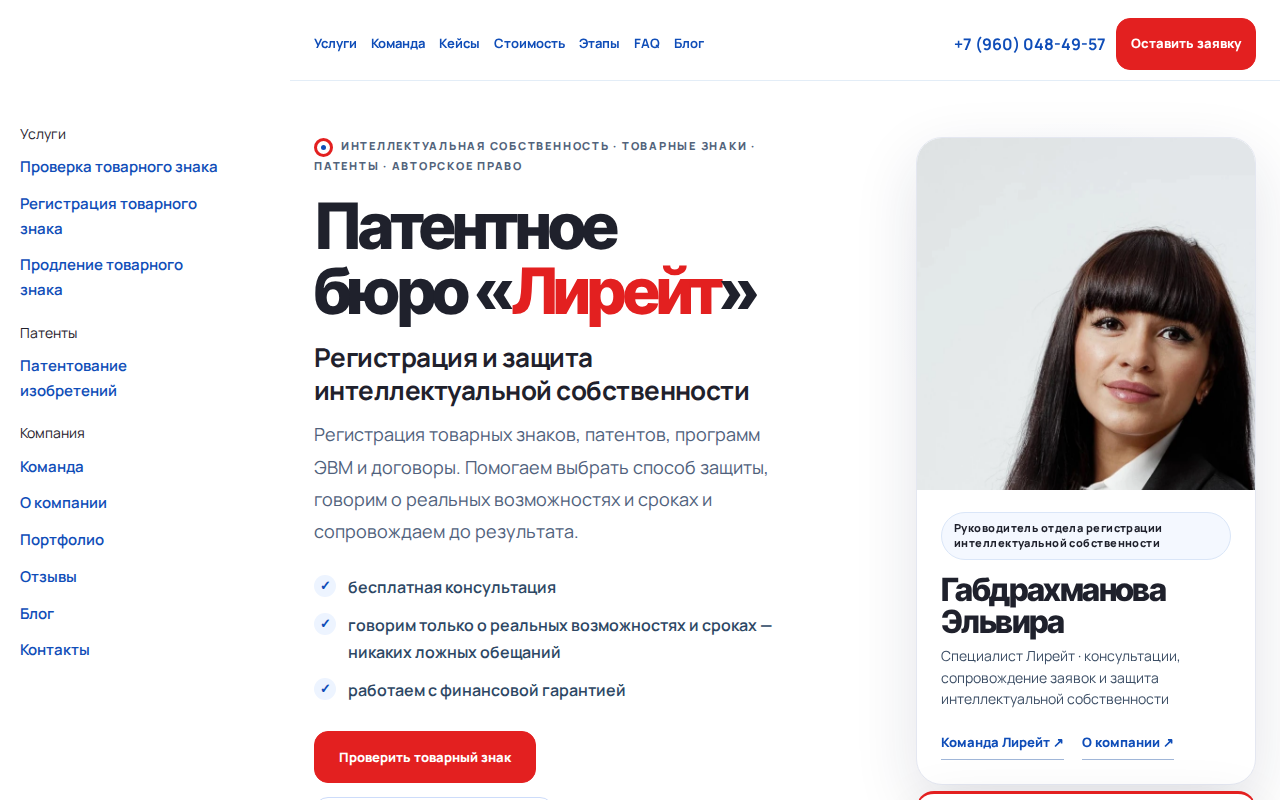
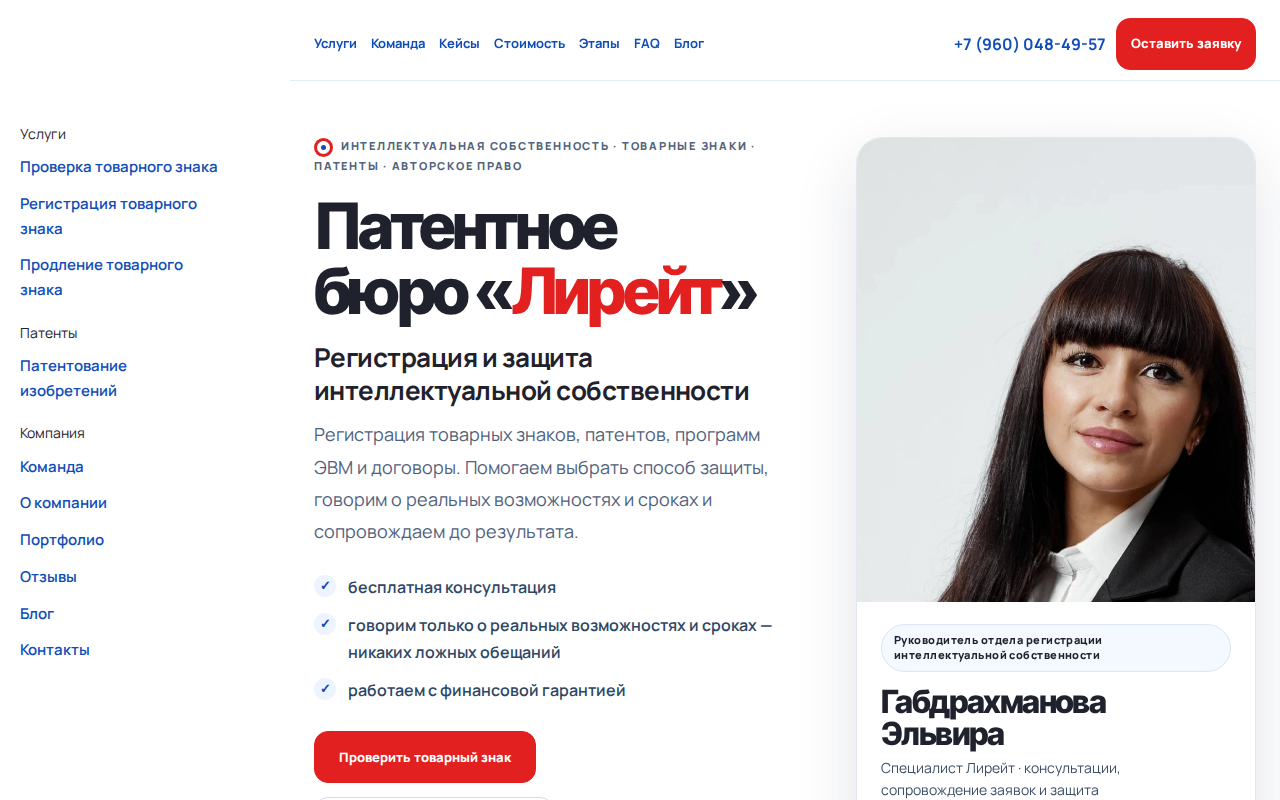
fix(home): restore hero photo frame size with inner zoom (r25) (#122)
Revert r24 shrinking of the expert-photo card to r23 dimensions
(683/1024, 58vh/520px, 42vw/400px) while keeping scoped cover+zoom
for a chest-up portrait.

Changed region(s): [[0.6875, 0.2812, 1.0, 1.0], [0.6562, 0.1562, 0.7188, 0.75]]

diff --git a/template/css/lireate-home-light-v4.css b/template/css/lireate-home-light-v4.css
@@ -753,7 +753,7 @@ body.lireate-home-light-v4.lireate-theme-light-v4 .lh4-root .hero-grid{align-ite
 body.lireate-home-light-v4.lireate-theme-light-v4 .lh4-root .hero-grid > .reveal:first-child{padding-top:0;margin-top:0}
 body.lireate-home-light-v4.lireate-theme-light-v4 .lh4-root .hero-right .expert-card{align-self:start}
 }
-/* r24: портрет hero — кадр по грудь, лицо крупнее (cover + scale, макушка в кадре) */
+/* r25: портрет hero — прежний размер окна (r23), внутри cover+zoom по грудь */
 body.lireate-home-light-v4.lireate-theme-light-v4 .lh4-root .hero-right .expert-photo picture{
   display:block;
   width:100%;
@@ -764,31 +764,36 @@ body.lireate-home-light-v4.lireate-theme-light-v4 .lh4-root .hero-right .expert-
   object-fit:cover !important;
   object-position:50% 2% !important;
   transform:scale(1.78) !important;
-  transform-origin:50% 12% !important;
+  transform-origin:50% 10% !important;
+  width:100%;
+  height:100%;
+}
+body.lireate-home-light-v4.lireate-theme-light-v4 .lh4-root .hero-right .expert-card:hover .expert-photo img{
+  transform:scale(1.78) !important;
 }
 @media (min-width: 861px) {
-body.lireate-home-light-v4.lireate-theme-light-v4 .lh4-root .hero-right{max-width:min(34vw,340px);justify-self:end}
+body.lireate-home-light-v4.lireate-theme-light-v4 .lh4-root .hero-right{max-width:min(42vw,400px);justify-self:end}
 body.lireate-home-light-v4.lireate-theme-light-v4 .lh4-root .hero-right .expert-photo{
-  aspect-ratio:10/13;
-  max-height:min(44vh,400px);
+  aspect-ratio:683/1024;
+  max-height:min(58vh,520px);
   width:100%;
   height:auto;
 }
 body.lireate-home-light-v4.lireate-theme-light-v4 .lh4-root .hero-right .expert-photo picture{
-  max-height:min(44vh,400px);
+  max-height:min(58vh,520px);
 }
 body.lireate-home-light-v4.lireate-theme-light-v4 .lh4-root .hero-right .expert-photo img{
-  width:100%;
-  height:100%;
-  max-height:min(44vh,400px);
+  max-height:min(58vh,520px);
 }
 }
 @media (max-width: 860px) {
 body.lireate-home-light-v4.lireate-theme-light-v4 .lh4-root .hero-right .expert-photo{
-  aspect-ratio:10/13;
-  max-height:min(68vw,380px);
+  aspect-ratio:683/1024;
+  max-height:none;
+  width:100%;
 }
 body.lireate-home-light-v4.lireate-theme-light-v4 .lh4-root .hero-right .expert-photo img{
-  transform:scale(1.55) !important;
+  transform:scale(1.62) !important;
+  transform-origin:50% 8% !important;
 }
 }

diff --git a/scripts/test_lireate_home_hero_photo.py b/scripts/test_lireate_home_hero_photo.py
@@ -1,5 +1,5 @@
 #!/usr/bin/env python3
-"""Home hero: portrait assets, picture markup; hero uses scoped cover+zoom (r24)."""
+"""Home hero: portrait assets, picture markup; hero uses scoped cover+zoom (r25 frame)."""
 
 import re
 import sys
@@ -45,6 +45,10 @@ class HomeHeroPhotoTests(unittest.TestCase):
         )
         self.assertRegex(css, r"object-position:\s*50%\s*2%")
         self.assertIn("transform:scale(1.78)", css.replace(" ", ""))
+        compact = css.replace(" ", "")
+        self.assertIn("max-height:min(58vh,520px)", compact)
+        self.assertIn("max-width:min(42vw,400px)", compact)
+        self.assertNotIn("aspect-ratio:10/13", compact)
 
     def test_head_snippet_preloads_hero_image(self):
         import lireate_home_light_v4_install_lib as home_lib

diff --git a/scripts/test_lireate_light_v4_shared_asset_version.py b/scripts/test_lireate_light_v4_shared_asset_version.py
@@ -86,7 +86,7 @@ class LightV4SharedAssetVersionTests(unittest.TestCase):
         """Home hero CSS has its own cache-bust token (r21+) in the main.php head snippet."""
         import lireate_home_light_v4_install_lib as home_lib
 
-        self.assertEqual("20261126r24", ver.HOME_CSS_VERSION)
+        self.assertEqual("20261126r25", ver.HOME_CSS_VERSION)
         snippet = home_lib._head_snippet()
         self.assertIn(
             "/template/css/lireate-home-light-v4.css?v={0}".format(ver.HOME_CSS_VERSION), snippet

diff --git a/pages/home/_preview/cms-shell.php b/pages/home/_preview/cms-shell.php
@@ -9,7 +9,7 @@ putenv('LIREATE_PUBLIC_SITE_URL');
 putenv('LIREATE_PUBLIC_SITE_HOST');
 require_once $repo_root . '/pages/_shared/lireate-preview-bootstrap.php';
 require_once $repo_root . '/pages/home/_shared/lireate-home-config.php';
-$lh_preview_v = defined('LIREATE_HOME_CSS_VERSION') ? LIREATE_HOME_CSS_VERSION : '20261126r24';
+$lh_preview_v = defined('LIREATE_HOME_CSS_VERSION') ? LIREATE_HOME_CSS_VERSION : '20261126r25';
 if (!defined('LIREATE_HOME_PREVIEW')) {
     define('LIREATE_HOME_PREVIEW', true);
 }

diff --git a/scripts/lireate_light_v4_asset_version.py b/scripts/lireate_light_v4_asset_version.py
@@ -5,4 +5,4 @@ MAIN_JS_QUERY_VERSION = "20261126r20"
 # Home hero CSS only (template/css/lireate-home-light-v4.css): bumped separately so live
 # cache-bust is a one-line change in template/main.php (head snippet marker
 # lireate-home-light-v4-install-head:v1).
-HOME_CSS_VERSION = "20261126r24"
+HOME_CSS_VERSION = "20261126r25"

diff --git a/pages/home/_shared/lireate-home-config.php b/pages/home/_shared/lireate-home-config.php
@@ -50,5 +50,5 @@ if (!defined('LIREATE_HOME_TEMPLATE_VERSION')) {
     define('LIREATE_HOME_TEMPLATE_VERSION', '20261126r20');
 }
 if (!defined('LIREATE_HOME_CSS_VERSION')) {
-    define('LIREATE_HOME_CSS_VERSION', '20261126r24');
+    define('LIREATE_HOME_CSS_VERSION', '20261126r25');
 }

diff --git a/template/page/home/lireate-home-config.php b/template/page/home/lireate-home-config.php
@@ -50,5 +50,5 @@ if (!defined('LIREATE_HOME_TEMPLATE_VERSION')) {
     define('LIREATE_HOME_TEMPLATE_VERSION', '20261126r20');
 }
 if (!defined('LIREATE_HOME_CSS_VERSION')) {
-    define('LIREATE_HOME_CSS_VERSION', '20261126r24');
+    define('LIREATE_HOME_CSS_VERSION', '20261126r25');
 }
